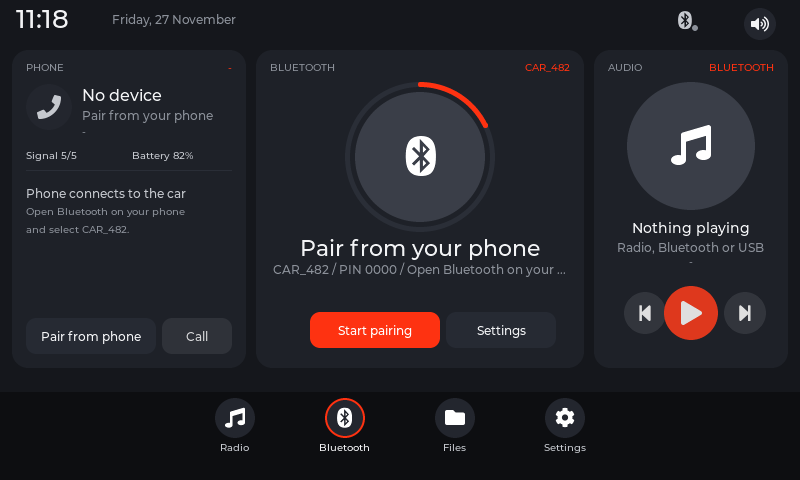
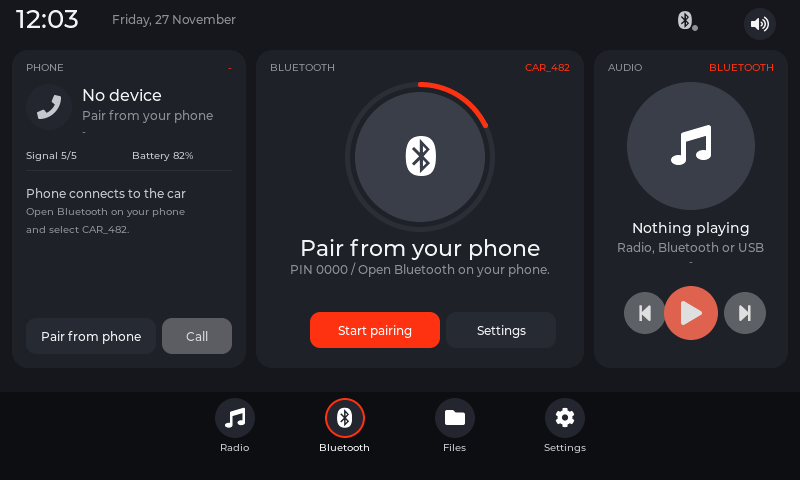
ui: restore bluetooth period, align web topbar/dock to native, add fixed reference mode

diff --git a/prototype/index.html b/prototype/index.html
@@ -93,24 +93,24 @@
   }
 
   /* ── top bar ─────────────────────────────────────────────── */
-  .topbar{position:absolute;left:18px;right:14px;top:8px;height:36px;display:flex;align-items:center}
-  .clock{font-size:26px;font-weight:600;letter-spacing:-.02em;line-height:1}
-  .date{font-size:12px;color:var(--muted);margin-left:10px;white-space:nowrap}
-  .top-right{margin-left:auto;display:flex;align-items:center;gap:8px;height:100%}
-  .status-bt{width:18px;height:18px;position:relative;display:grid;place-items:center;opacity:.9}
-  .status-bt .dot{position:absolute;right:-1px;bottom:-1px;width:6px;height:6px;border-radius:50%;background:var(--green);box-shadow:0 0 0 2px var(--bg)}
+  .topbar{position:absolute;left:0;right:0;top:0;height:50px}
+  .clock{position:absolute;left:16px;top:4px;font-size:26px;font-weight:600;letter-spacing:-.02em;line-height:1}
+  .date{position:absolute;left:112px;top:13px;font-size:12px;color:var(--muted);white-space:nowrap;margin:0}
+  .top-right{position:absolute;right:24px;top:8px;height:32px;display:flex;align-items:flex-start;gap:48px;margin:0}
+  .status-bt{width:22px;height:22px;position:relative;display:grid;place-items:center;opacity:.9;margin-top:2px}
+  .status-bt .dot{position:absolute;right:-1px;bottom:1px;width:6px;height:6px;border-radius:50%;background:var(--green);box-shadow:0 0 0 2px var(--bg)}
   .weather{display:flex;align-items:center;gap:4px;font-size:12px;font-weight:500}
   .weather svg{width:16px;height:16px}
   .weather .city{color:var(--muted);font-weight:400}
   .sep{width:1px;height:16px;background:rgba(255,255,255,.10);margin:0 3px}
   .greet{font-size:12px;color:var(--soft);white-space:nowrap}
   .gear{
-    width:36px;height:36px;border-radius:50%;background:var(--circle);
-    display:grid;place-items:center;margin-left:6px;cursor:pointer;
+    width:32px;height:32px;border-radius:50%;background:var(--circle);
+    display:grid;place-items:center;margin:0;cursor:pointer;
     transition:background .15s ease;
   }
   .gear:hover{background:#2E323C}
-  .gear svg{width:19px;height:19px}
+  .gear svg{width:17px;height:17px}
 
   /* ── cards ──────────────────────────────────────────────── */
   .card{
@@ -122,9 +122,9 @@
   .card .label{font-size:10px;font-weight:600;letter-spacing:.10em;color:var(--muted);text-transform:uppercase}
   .card .source{font-size:10px;font-weight:600;letter-spacing:.09em;color:var(--accent);text-transform:uppercase}
   .card-head{display:flex;align-items:center;justify-content:space-between;height:14px}
-  .phone-card{left:12.5px;width:234.375px}
-  .bt-card{left:256.25px;width:328.125px}
-  .audio-card{left:593.75px;width:193.75px}
+  .phone-card{left:12px;width:234px}
+  .bt-card{left:256px;width:328px}
+  .audio-card{left:594px;width:194px}
 
   /* ── phone card ─────────────────────────────────────────── */
   .device{display:flex;align-items:center;gap:10px;margin-top:18px}
@@ -237,23 +237,26 @@
   .dock{
     position:absolute;left:0;right:0;bottom:0;height:88px;background:var(--dock);
     border-top:1px solid rgba(255,255,255,.035);
-    display:flex;align-items:flex-start;justify-content:space-around;padding:8px 18px 0;
   }
-  .dock-item{display:flex;flex-direction:column;align-items:center;gap:6px;width:96px;cursor:pointer}
+  .dock-item{position:absolute;top:6px;display:flex;flex-direction:column;align-items:center;gap:4px;width:100px;cursor:pointer}
+  .dock-item:nth-child(1){left:185px}
+  .dock-item:nth-child(2){left:295px}
+  .dock-item:nth-child(3){left:405px}
+  .dock-item:nth-child(4){left:515px}
   .dock-ic{
-    width:42px;height:42px;border-radius:50%;background:var(--circle);
+    width:40px;height:40px;border-radius:50%;background:var(--circle);
     display:grid;place-items:center;transition:background .15s ease, box-shadow .15s ease;
   }
   .dock-item:hover .dock-ic{background:#2B2F38}
   .dock-item.active .dock-ic{background:#2C3039;box-shadow:0 0 0 2px var(--accent)}
-  .dock-ic svg{width:21px;height:21px}
+  .dock-ic svg{width:20px;height:20px}
   .dock-label{font-size:10px;color:var(--soft);white-space:nowrap}
   .dock-item.active .dock-label{color:var(--text);font-weight:600}
 
 
   /* ── app panels: Radio / Files / Settings ───────────────── */
   .app-panel{
-    position:absolute;left:12.5px;top:50px;width:775px;height:318px;
+    position:absolute;left:12px;top:50px;width:776px;height:318px;
     border-radius:16px;background:var(--card);padding:14px 18px;
     display:none;z-index:6;overflow:hidden;
   }
@@ -724,7 +727,7 @@
         <div class="sub-label" style="margin-top:12px">About</div>
         <div class="about-grid">
           <span>Bluetooth</span><b>CAR_482</b>
-          <span>UI</span><b>LVGL 9.3 / v0.5.2</b>
+          <span>UI</span><b>LVGL 9.3 / v0.5.3</b>
           <span>BT link</span><b>55 AA LEN CMD DATA CHK</b>
         </div>
       </div>
@@ -1046,7 +1049,7 @@
     );
     const titles = {
       off: ['Bluetooth off', 'Tap to power on'],
-      ready: ['Pair from your phone', 'CAR_482 / PIN 0000 / Open Bluetooth on your phone.'],
+      ready: ['Pair from your phone', 'PIN 0000 / Open Bluetooth on your phone.'],
       pairing: ['Waiting for phone', 'Select CAR_482 on your phone'],
       connected: ['Connected', "Aleksa's iPhone / A2DP / AVRCP"],
       playing: ['Playing', "Aleksa's iPhone / A2DP / AVRCP"],
@@ -1795,8 +1798,14 @@
   // ── fit the fixed 800x480 board into the available window ──
   const frame = el('frame');
   function fit() {
-    const s = Math.min(frame.clientWidth / 800, frame.clientHeight / 480, 1);
     const stage = el('stage');
+    if (new URLSearchParams(location.search).get('fixed') === '1') {
+      stage.style.transform = 'scale(1)';
+      stage.style.left = '0';
+      stage.style.top = '0';
+      return;
+    }
+    const s = Math.min(frame.clientWidth / 800, frame.clientHeight / 480, 1);
     stage.style.transform = `scale(${s})`;
     stage.style.left = `${(frame.clientWidth - 800 * s) / 2}px`;
     stage.style.top = `${(frame.clientHeight - 480 * s) / 2}px`;
@@ -1869,6 +1878,11 @@
   };
 
   const params = new URLSearchParams(location.search);
+  if (params.get('fixed') === '1') {
+    frame.style.width = '800px';
+    frame.style.height = '480px';
+    fit();
+  }
   if (params.get('clean') === '1') {
     document.body.classList.add('clean');
     el('testbar').classList.add('hidden');

diff --git a/app/panels.c b/app/panels.c
@@ -1007,7 +1007,7 @@ static void build_settings(lv_obj_t *parent) {
     }
 
     label(settings_panel, "ABOUT", 24, 214, 80, 14, &lv_font_montserrat_10, C_MUTED, LV_TEXT_ALIGN_LEFT);
-    label(settings_panel, "CAR_482 / v0.5.2 / LVGL", 120, 214, 320, 14,
+    label(settings_panel, "CAR_482 / v0.5.3 / LVGL", 120, 214, 320, 14,
           &lv_font_montserrat_10, C_TEXT, LV_TEXT_ALIGN_LEFT);
     label(settings_panel, "BT 55 AA LEN CMD DATA CHK", 120, 230, 320, 14,
           &lv_font_montserrat_10, C_TEXT, LV_TEXT_ALIGN_LEFT);

diff --git a/app/ui.c b/app/ui.c
@@ -636,7 +636,7 @@ static void update_bt(void) {
     case BT_READY:
         value = 18; core = 0x3A3E48;
         title = "Pair from your phone";
-        sub = BT_LOCAL_NAME " / PIN 0000 / Open Bluetooth on your phone.";
+        sub = "PIN 0000 / Open Bluetooth on your phone.";
         primary = "Start pairing";
         secondary = "Settings";
         break;

diff --git a/README.md b/README.md
@@ -153,7 +153,10 @@ You can also use URL parameters:
 ```
 prototype/index.html?state=incoming
 prototype/index.html?clean=1&state=pairing
+prototype/index.html?clean=1&fixed=1
 ```
+
+The browser page is an HTML mock, not the LVGL renderer. It scales the 800×480 board to the window and uses system fonts, so it will not be pixel-identical to the native screenshots. The top bar, cards and dock positions are aligned to the native build. Use `?fixed=1` in a viewport of at least 800×480 for a 1:1 layout reference.
 
 Keyboard: **Alt+1 … Alt+8** switch state. `window.strada.setState('active')`, `window.strada.action('next')`, `window.strada.showScreen('files')`, `window.strada.setVolume(40)`, `window.strada.showVolume()`, `window.strada.setTheme(true)`, `window.strada.nightDim(true)` and `window.strada.showScreensaver()` are available for browser automation.
 

diff --git a/docs/RELEASES.md b/docs/RELEASES.md
@@ -3,7 +3,7 @@
 ## Versioning
 
 - `VERSION` is the current UI version.
-- Tags use `vMAJOR.MINOR.PATCH` (for example `v0.5.2`).
+- Tags use `vMAJOR.MINOR.PATCH` (for example `v0.5.3`).
 - Every push to `main` builds and tests the emulator, the ARMv5 framebuffer binary and the patched SPI image.
 - A tag matching `v*` also publishes a GitHub Release with the build artifacts.
 
@@ -26,8 +26,8 @@ $EDITOR VERSION README.md
 
 # 3. Commit, tag and push
 git add VERSION README.md
-git commit -m "release: v0.5.2"
-git tag v0.5.2
+git commit -m "release: v0.5.3"
+git tag v0.5.3
 git push origin main --tags
 ```
 
